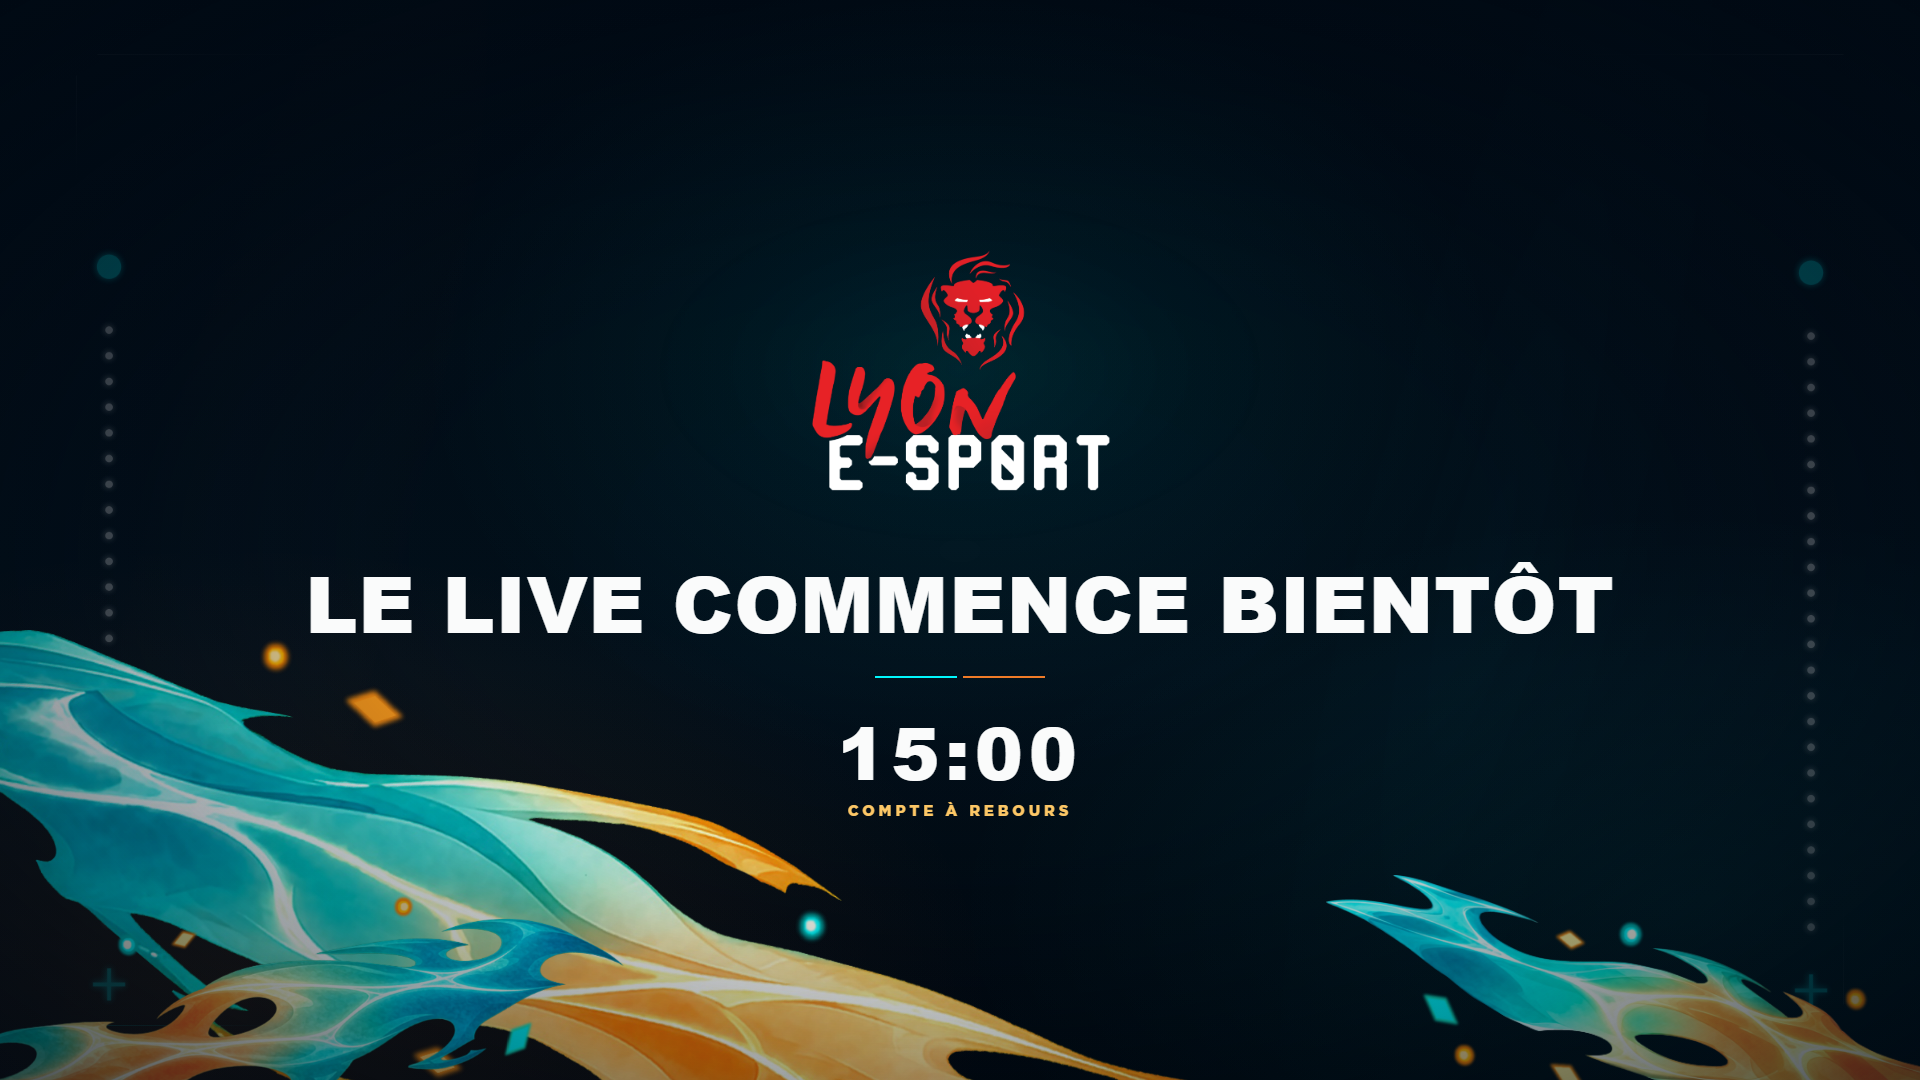
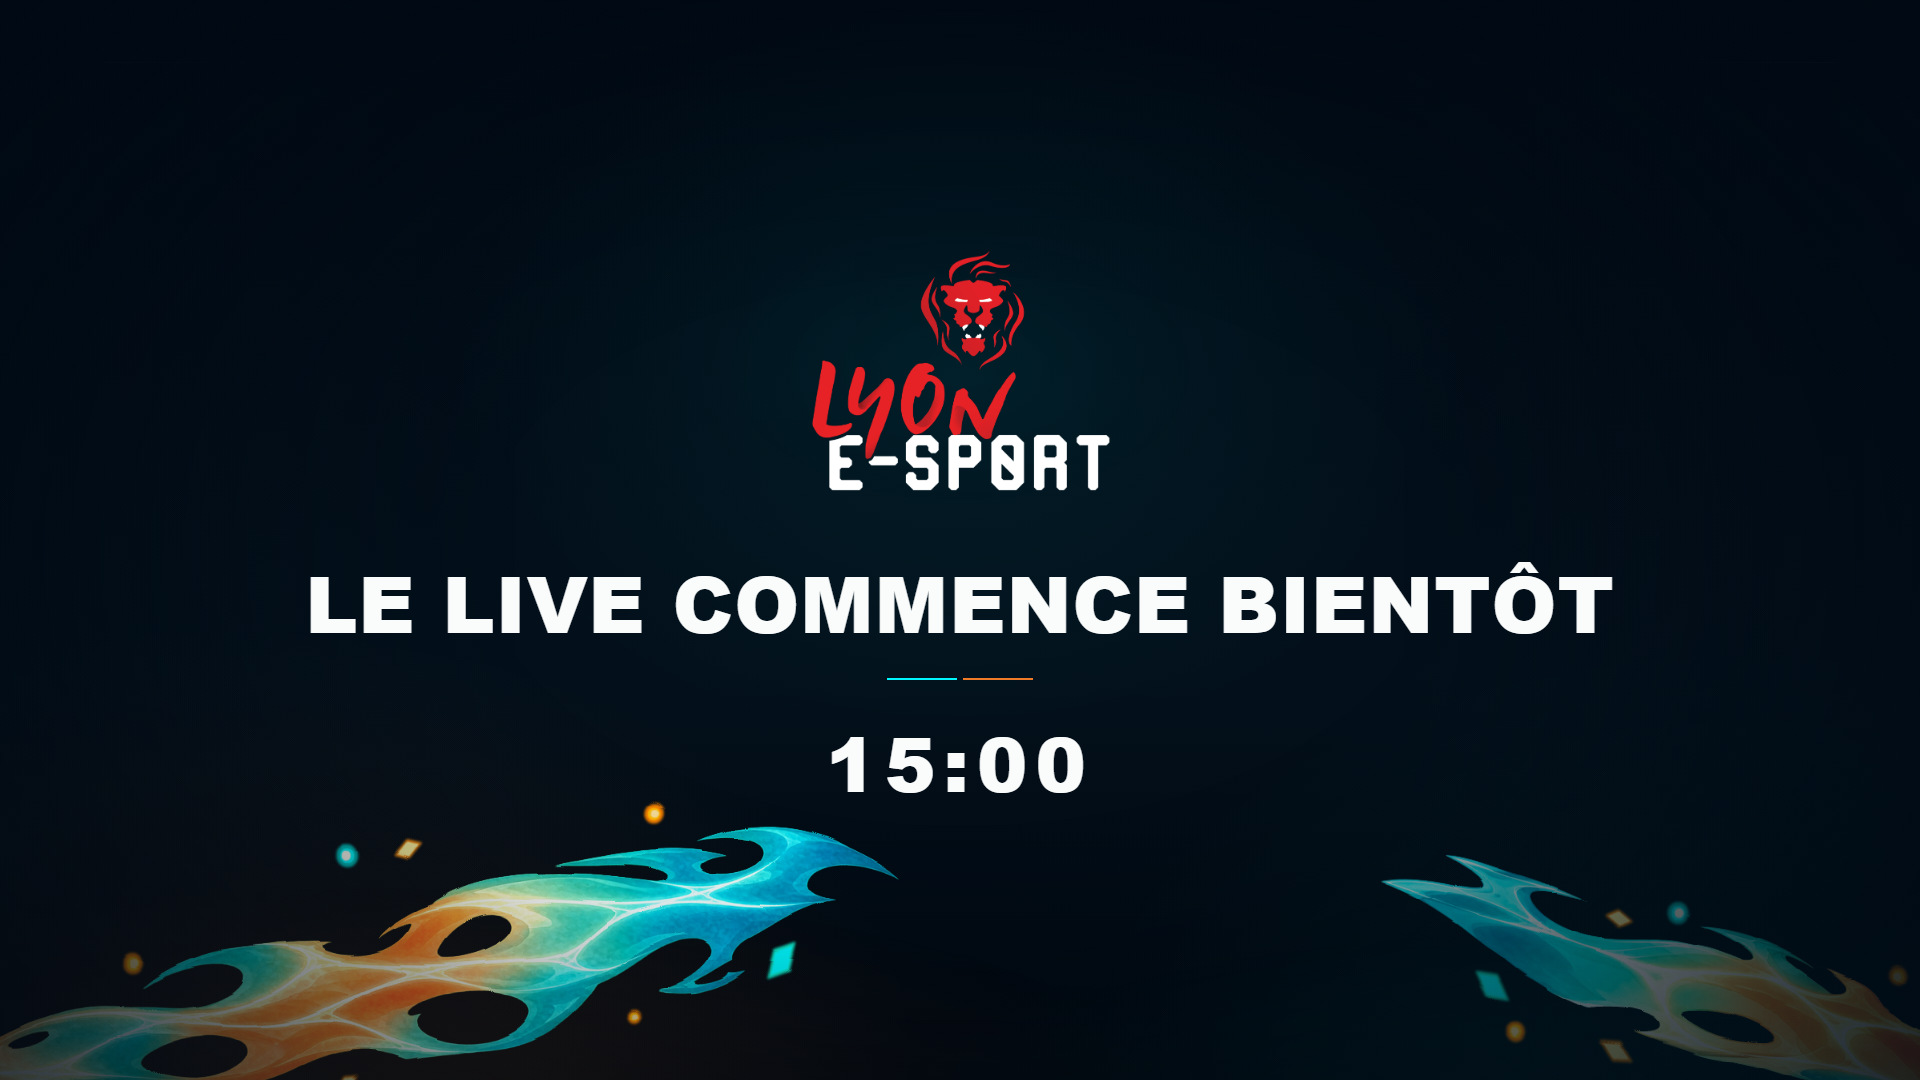
Refine waiting screen flame motion

diff --git a/components/graphics/waiting-renderer.tsx b/components/graphics/waiting-renderer.tsx
@@ -22,24 +22,45 @@ export function WaitingRenderer({ snapshot, state, getServerNowMs, freezeProgres
   useLayoutEffect(() => {
     if (!root.current) return;
     const scope = gsap.context(() => {
+      const leftCoarseNoise = root.current?.querySelector<SVGFETurbulenceElement>("[data-flow-noise='left-coarse']");
+      const leftFineNoise = root.current?.querySelector<SVGFETurbulenceElement>("[data-flow-noise='left-fine']");
+      const rightCoarseNoise = root.current?.querySelector<SVGFETurbulenceElement>("[data-flow-noise='right-coarse']");
+      const rightFineNoise = root.current?.querySelector<SVGFETurbulenceElement>("[data-flow-noise='right-fine']");
+      const leftCoarseDisplacement = root.current?.querySelector<SVGFEDisplacementMapElement>("[data-flow-displacement='left-coarse']");
+      const leftFineDisplacement = root.current?.querySelector<SVGFEDisplacementMapElement>("[data-flow-displacement='left-fine']");
+      const rightCoarseDisplacement = root.current?.querySelector<SVGFEDisplacementMapElement>("[data-flow-displacement='right-coarse']");
+      const rightFineDisplacement = root.current?.querySelector<SVGFEDisplacementMapElement>("[data-flow-displacement='right-fine']");
+      const flameFlow = { phase: 0 };
+
+      const renderFlameFlow = () => {
+        const phase = flameFlow.phase;
+        const leftX = 0.0064 + Math.sin(phase) * 0.00035;
+        const leftY = 0.0205 + Math.sin(phase * 2 + 0.35) * 0.0012;
+        const rightX = 0.0068 + Math.sin(phase + 0.8) * 0.0003;
+        const rightY = 0.0215 + Math.sin(phase * 2 + 1.1) * 0.001;
+        const leftFineX = 0.032 + Math.sin(phase * 2 + 0.2) * 0.0015;
+        const leftFineY = 0.068 + Math.sin(phase * 3 + 0.65) * 0.0025;
+        const rightFineX = 0.034 + Math.sin(phase * 2 + 1.2) * 0.0013;
+        const rightFineY = 0.071 + Math.sin(phase * 3 + 1.7) * 0.0022;
+
+        leftCoarseNoise?.setAttribute("baseFrequency", `${leftX.toFixed(5)} ${leftY.toFixed(5)}`);
+        leftFineNoise?.setAttribute("baseFrequency", `${leftFineX.toFixed(5)} ${leftFineY.toFixed(5)}`);
+        rightCoarseNoise?.setAttribute("baseFrequency", `${rightX.toFixed(5)} ${rightY.toFixed(5)}`);
+        rightFineNoise?.setAttribute("baseFrequency", `${rightFineX.toFixed(5)} ${rightFineY.toFixed(5)}`);
+        leftCoarseDisplacement?.setAttribute("scale", (6.2 + Math.sin(phase) * 1.15 + Math.sin(phase * 2 + 0.4) * 0.55).toFixed(2));
+        leftFineDisplacement?.setAttribute("scale", (1.4 + Math.sin(phase * 3 + 0.2) * 0.35).toFixed(2));
+        rightCoarseDisplacement?.setAttribute("scale", (4.2 + Math.sin(phase + 0.72) * 0.8 + Math.sin(phase * 2 + 1.1) * 0.35).toFixed(2));
+        rightFineDisplacement?.setAttribute("scale", (1.05 + Math.sin(phase * 3 + 1) * 0.25).toFixed(2));
+      };
+
+      renderFlameFlow();
       const timeline = gsap.timeline({ repeat: -1, paused: freezeProgress !== null });
       timeline
-        .fromTo("[data-flame-main]", { y: 0 }, { y: -7, duration: 7.5, ease: "sine.inOut" }, 0)
-        .to("[data-flame-main]", { y: 0, duration: 7.5, ease: "sine.inOut" }, 7.5)
-        .fromTo("[data-flame-left]", { x: 0, y: 0 }, { x: 4, y: -3, duration: 7.5, ease: "sine.inOut" }, 0)
-        .to("[data-flame-left]", { x: 0, y: 0, duration: 7.5, ease: "sine.inOut" }, 7.5)
-        .fromTo("[data-flame-right]", { x: 0, y: 0 }, { x: -4, y: -2, duration: 7.5, ease: "sine.inOut" }, 0)
-        .to("[data-flame-right]", { x: 0, y: 0, duration: 7.5, ease: "sine.inOut" }, 7.5)
-        .fromTo("[data-halo]", { scale: 1, opacity: 0.19 }, { scale: 1.018, opacity: 0.23, duration: 7.5, ease: "sine.inOut" }, 0)
-        .to("[data-halo]", { scale: 1, opacity: 0.19, duration: 7.5, ease: "sine.inOut" }, 7.5)
-        .fromTo("[data-sweep-cyan]", { x: -520, opacity: 0 }, { x: 2420, opacity: 0.18, duration: 10.5, ease: "none" }, 0.8)
-        .to("[data-sweep-cyan]", { opacity: 0, duration: 1.4, ease: "power1.in" }, 10.2)
-        .fromTo("[data-sweep-orange]", { x: -620, opacity: 0 }, { x: 2400, opacity: 0.13, duration: 9.2, ease: "none" }, 5.2)
-        .to("[data-sweep-orange]", { opacity: 0, duration: 0.6, ease: "power1.in" }, 14.4)
-        .fromTo("[data-points-left]", { y: 0 }, { y: -18, duration: 7.5, ease: "sine.inOut" }, 0)
-        .to("[data-points-left]", { y: 0, duration: 7.5, ease: "sine.inOut" }, 7.5)
-        .fromTo("[data-points-right]", { y: -10 }, { y: 8, duration: 7.5, ease: "sine.inOut" }, 0)
-        .to("[data-points-right]", { y: -10, duration: 7.5, ease: "sine.inOut" }, 7.5);
+        .to(flameFlow, { phase: Math.PI * 2, duration: 15, ease: "none", onUpdate: renderFlameFlow }, 0)
+        .fromTo("[data-halo]", { scale: 1, opacity: 0.16 }, { scale: 1.014, opacity: 0.205, duration: 7.5, ease: "sine.inOut" }, 0)
+        .to("[data-halo]", { scale: 1, opacity: 0.16, duration: 7.5, ease: "sine.inOut" }, 7.5)
+        .fromTo("[data-atmosphere]", { opacity: 0.42 }, { opacity: 0.58, duration: 7.5, ease: "sine.inOut" }, 0)
+        .to("[data-atmosphere]", { opacity: 0.42, duration: 7.5, ease: "sine.inOut" }, 7.5);
 
       if (freezeProgress !== null) {
         timeline.progress(Math.max(0, Math.min(0.9999, freezeProgress))).pause();
@@ -50,21 +71,30 @@ export function WaitingRenderer({ snapshot, state, getServerNowMs, freezeProgres
 
   return (
     <div className="gfx-stage waiting-stage" ref={root} data-testid="waiting-stage">
+      <svg className="waiting-filter-defs" width="0" height="0" aria-hidden="true" focusable="false">
+        <defs>
+          <filter id="waiting-flame-flow-left" x="-8%" y="-18%" width="116%" height="136%" colorInterpolationFilters="sRGB">
+            <feTurbulence data-flow-noise="left-coarse" type="fractalNoise" baseFrequency="0.0064 0.0205" numOctaves="2" seed="17" stitchTiles="stitch" result="leftCoarseNoise" />
+            <feDisplacementMap data-flow-displacement="left-coarse" in="SourceGraphic" in2="leftCoarseNoise" scale="6.2" xChannelSelector="R" yChannelSelector="B" result="leftCoarseFlow" />
+            <feTurbulence data-flow-noise="left-fine" type="fractalNoise" baseFrequency="0.032 0.068" numOctaves="1" seed="29" stitchTiles="stitch" result="leftFineNoise" />
+            <feDisplacementMap data-flow-displacement="left-fine" in="leftCoarseFlow" in2="leftFineNoise" scale="1.4" xChannelSelector="B" yChannelSelector="R" />
+          </filter>
+          <filter id="waiting-flame-flow-right" x="-8%" y="-18%" width="116%" height="136%" colorInterpolationFilters="sRGB">
+            <feTurbulence data-flow-noise="right-coarse" type="fractalNoise" baseFrequency="0.0068 0.0215" numOctaves="2" seed="23" stitchTiles="stitch" result="rightCoarseNoise" />
+            <feDisplacementMap data-flow-displacement="right-coarse" in="SourceGraphic" in2="rightCoarseNoise" scale="4.2" xChannelSelector="B" yChannelSelector="R" result="rightCoarseFlow" />
+            <feTurbulence data-flow-noise="right-fine" type="fractalNoise" baseFrequency="0.034 0.071" numOctaves="1" seed="31" stitchTiles="stitch" result="rightFineNoise" />
+            <feDisplacementMap data-flow-displacement="right-fine" in="rightCoarseFlow" in2="rightFineNoise" scale="1.05" xChannelSelector="R" yChannelSelector="B" />
+          </filter>
+        </defs>
+      </svg>
       <div className="waiting-depth" aria-hidden="true" />
       <div className="waiting-lines" aria-hidden="true" />
-      <div className="waiting-sweep waiting-sweep-cyan" data-sweep-cyan aria-hidden="true" />
-      <div className="waiting-sweep waiting-sweep-orange" data-sweep-orange aria-hidden="true" />
+      <div className="waiting-atmosphere" data-atmosphere aria-hidden="true" />
 
-      <img className="waiting-points waiting-points-left" data-points-left src="/assets/Ligne-points.png" alt="" aria-hidden="true" />
-      <img className="waiting-points waiting-points-right" data-points-right src="/assets/Ligne-points.png" alt="" aria-hidden="true" />
-
-      <div className="waiting-flame waiting-flame-main" data-flame-main aria-hidden="true">
-        <img src="/assets/Flamme-01.png" alt="" />
-      </div>
-      <div className="waiting-flame waiting-flame-left" data-flame-left aria-hidden="true">
+      <div className="waiting-flame waiting-flame-left" aria-hidden="true">
         <img src="/assets/Flamme-02.png" alt="" />
       </div>
-      <div className="waiting-flame waiting-flame-right" data-flame-right aria-hidden="true">
+      <div className="waiting-flame waiting-flame-right" aria-hidden="true">
         <img src="/assets/Flamme-03.png" alt="" />
       </div>
       <div className="waiting-vignette" aria-hidden="true" />
@@ -79,7 +109,6 @@ export function WaitingRenderer({ snapshot, state, getServerNowMs, freezeProgres
       {content.countdownEnabled && state && (
         <div className={`waiting-countdown ${state.timer.showDigits ? "" : "waiting-countdown-hidden"}`}>
           <span className="waiting-countdown-value">{value}</span>
-          <span className="waiting-countdown-label">Compte à rebours</span>
         </div>
       )}
     </div>

diff --git a/app/globals.css b/app/globals.css
@@ -91,75 +91,71 @@ button, a { -webkit-tap-highlight-color: transparent; }
   inset: 0;
   z-index: 0;
   background:
-    radial-gradient(ellipse at 50% 34%, rgba(1, 247, 253, 0.07), transparent 40%),
-    radial-gradient(ellipse at 12% 92%, rgba(239, 123, 40, 0.11), transparent 32%),
-    radial-gradient(ellipse at 88% 84%, rgba(1, 247, 253, 0.07), transparent 31%),
+    radial-gradient(ellipse at 50% 35%, rgba(1, 247, 253, 0.062), transparent 38%),
+    radial-gradient(ellipse at 12% 98%, rgba(239, 123, 40, 0.09), transparent 29%),
+    radial-gradient(ellipse at 91% 96%, rgba(1, 247, 253, 0.052), transparent 27%),
     linear-gradient(180deg, #010a14, #03101b 62%, #01070e);
+}
+
+.waiting-filter-defs {
+  position: absolute;
+  pointer-events: none;
 }
 
 .waiting-lines {
   position: absolute;
   z-index: 1;
-  inset: 54px 76px;
-  opacity: 0.56;
+  inset: 62px 84px;
+  opacity: 0.42;
   background:
-    linear-gradient(90deg, rgba(250, 251, 251, 0.12), rgba(250, 251, 251, 0.03) 22%, transparent 45%) top left / 42% 1px no-repeat,
-    linear-gradient(90deg, transparent 55%, rgba(250, 251, 251, 0.03) 78%, rgba(250, 251, 251, 0.12)) top right / 42% 1px no-repeat,
-    linear-gradient(90deg, rgba(1, 247, 253, 0.35), transparent 32%) bottom left / 35% 1px no-repeat,
-    linear-gradient(90deg, transparent 68%, rgba(239, 123, 40, 0.35)) bottom right / 35% 1px no-repeat,
-    linear-gradient(rgba(250, 251, 251, 0.1), transparent 35%) top left / 1px 42% no-repeat,
-    linear-gradient(transparent 65%, rgba(250, 251, 251, 0.1)) bottom right / 1px 42% no-repeat;
-  clip-path: polygon(0 22px, 22px 0, 100% 0, 100% calc(100% - 22px), calc(100% - 22px) 100%, 0 100%);
+    linear-gradient(90deg, rgba(250, 251, 251, 0.12), rgba(250, 251, 251, 0.025) 22%, transparent 44%) top left / 40% 1px no-repeat,
+    linear-gradient(90deg, transparent 56%, rgba(250, 251, 251, 0.025) 78%, rgba(250, 251, 251, 0.12)) top right / 40% 1px no-repeat,
+    linear-gradient(90deg, rgba(1, 247, 253, 0.26), transparent 30%) bottom left / 31% 1px no-repeat,
+    linear-gradient(90deg, transparent 70%, rgba(239, 123, 40, 0.24)) bottom right / 31% 1px no-repeat,
+    linear-gradient(rgba(250, 251, 251, 0.08), transparent 30%) top left / 1px 35% no-repeat,
+    linear-gradient(transparent 70%, rgba(250, 251, 251, 0.08)) bottom right / 1px 35% no-repeat;
+  clip-path: polygon(0 18px, 18px 0, 100% 0, 100% calc(100% - 18px), calc(100% - 18px) 100%, 0 100%);
 }
 
-.waiting-sweep {
+.waiting-atmosphere {
   position: absolute;
-  z-index: 2;
-  top: -160px;
-  bottom: -160px;
-  width: 280px;
+  z-index: 1;
+  left: 0;
+  right: 0;
+  bottom: 0;
+  height: 390px;
+  background:
+    radial-gradient(ellipse at 20% 104%, rgba(239, 123, 40, 0.2), transparent 38%),
+    radial-gradient(ellipse at 84% 106%, rgba(1, 247, 253, 0.13), transparent 32%);
+  opacity: 0.42;
   pointer-events: none;
-  transform: skewX(-14deg);
-  will-change: transform, opacity;
+  will-change: opacity;
 }
-.waiting-sweep-cyan { background: radial-gradient(ellipse, rgba(1, 247, 253, 0.12), rgba(1, 247, 253, 0.015) 44%, transparent 72%); }
-.waiting-sweep-orange { background: radial-gradient(ellipse, rgba(239, 123, 40, 0.09), rgba(239, 123, 40, 0.012) 44%, transparent 72%); }
-
-.waiting-points {
-  position: absolute;
-  z-index: 2;
-  display: block;
-  width: 42px;
-  height: auto;
-  opacity: 0.33;
-  pointer-events: none;
-  user-select: none;
-  will-change: transform;
-}
-.waiting-points-left { left: 88px; top: 255px; }
-.waiting-points-right { right: 88px; top: 235px; }
 
 .waiting-flame {
   position: absolute;
-  z-index: 3;
+  z-index: 2;
   pointer-events: none;
-  will-change: transform;
 }
 .waiting-flame img {
   display: block;
   width: 100%;
   height: auto;
   user-select: none;
+  will-change: filter;
 }
-.waiting-flame-main { left: 50%; bottom: -615px; width: 2140px; transform: translateX(-50%); }
-.waiting-flame-left { left: -420px; bottom: -190px; width: 1040px; }
-.waiting-flame-right { right: -310px; bottom: -155px; width: 900px; }
+.waiting-flame-left { left: -260px; bottom: -135px; width: 1160px; }
+.waiting-flame-left img { filter: url("#waiting-flame-flow-left"); }
+.waiting-flame-right { right: -340px; bottom: -125px; width: 880px; opacity: 0.68; }
+.waiting-flame-right img { filter: url("#waiting-flame-flow-right"); }
 
 .waiting-vignette {
   position: absolute;
   inset: 0;
-  z-index: 4;
-  background: radial-gradient(ellipse at 50% 51%, transparent 0, rgba(1, 10, 20, 0.05) 39%, rgba(1, 10, 20, 0.48) 78%, rgba(1, 10, 20, 0.72) 100%);
+  z-index: 3;
+  background:
+    radial-gradient(ellipse at 50% 51%, transparent 0 35%, rgba(1, 10, 20, 0.1) 52%, rgba(1, 10, 20, 0.52) 81%, rgba(1, 10, 20, 0.74) 100%),
+    linear-gradient(90deg, rgba(1, 10, 20, 0.34), transparent 27% 73%, rgba(1, 10, 20, 0.38));
   pointer-events: none;
 }
 
@@ -172,8 +168,8 @@ button, a { -webkit-tap-highlight-color: transparent; }
   height: 410px;
   margin-left: -360px;
   border-radius: 50%;
-  background: radial-gradient(ellipse, rgba(1, 247, 253, 0.18), rgba(1, 247, 253, 0.035) 44%, transparent 72%);
-  opacity: 0.19;
+  background: radial-gradient(ellipse, rgba(1, 247, 253, 0.145), rgba(1, 247, 253, 0.027) 43%, transparent 71%);
+  opacity: 0.16;
   pointer-events: none;
   will-change: transform, opacity;
 }
@@ -225,8 +221,8 @@ button, a { -webkit-tap-highlight-color: transparent; }
   content: "";
   position: absolute;
   left: 50%;
-  bottom: -34px;
-  width: 170px;
+  bottom: -36px;
+  width: 146px;
   height: 2px;
   transform: translateX(-50%);
   background: linear-gradient(90deg, var(--les-cyan) 0 48%, transparent 48% 52%, var(--les-orange) 52% 100%);
@@ -235,11 +231,8 @@ button, a { -webkit-tap-highlight-color: transparent; }
 .waiting-countdown {
   position: absolute;
   z-index: 7;
-  top: 716px;
+  top: 724px;
   left: 50%;
-  display: flex;
-  flex-direction: column;
-  align-items: center;
   min-width: 520px;
   transform: translateX(-50%);
   text-align: center;
@@ -249,27 +242,15 @@ button, a { -webkit-tap-highlight-color: transparent; }
   min-width: 520px;
   color: var(--les-white);
   font-family: "Eurostile LES", sans-serif;
-  font-size: 72px;
+  font-size: 76px;
   font-weight: 900;
   font-variant-numeric: tabular-nums;
   line-height: 1;
-  letter-spacing: 0.08em;
+  letter-spacing: 0.105em;
   transition: opacity 180ms ease;
 }
 
-.waiting-countdown-label {
-  margin-top: 16px;
-  color: var(--les-solar);
-  font-family: "Gotham LES", sans-serif;
-  font-size: 15px;
-  letter-spacing: 0.26em;
-  line-height: 1;
-  text-transform: uppercase;
-  transition: opacity 180ms ease;
-}
-
-.waiting-countdown-hidden .waiting-countdown-value,
-.waiting-countdown-hidden .waiting-countdown-label { opacity: 0; }
+.waiting-countdown-hidden .waiting-countdown-value { opacity: 0; }
 
 .lower-third-stage { background: transparent; }
 

diff --git a/lib/graphics/registry.ts b/lib/graphics/registry.ts
@@ -1,8 +1,9 @@
 import type { GraphicTemplate, Preset } from "./types";
 
[2 lines of base64/hex data omitted]
-const RESOURCE_REVISION = "les-da-2026-r1";
[2 lines of base64/hex data omitted]
+const RESOURCE_REVISION = "les-da-2026-r2";
 
 export const templates: GraphicTemplate[] = [
   {
@@ -31,12 +32,20 @@ export const templates: GraphicTemplate[] = [
         integritySha256: LOGO_HASH,
       },
       {
-        id: "flamme-officielle",
-        label: "Flamme officielle 01",
-        path: "/assets/Flamme-01.png",
+        id: "flamme-officielle-gauche",
+        label: "Flamme officielle 02 — masse gauche",
+        path: "/assets/Flamme-02.png",
         status: "available",
         required: true,
-        integritySha256: FLAME_HASH,
+        integritySha256: FLAME_LEFT_HASH,
+      },
+      {
+        id: "flamme-officielle-droite",
+        label: "Flamme officielle 03 — rappel droit",
+        path: "/assets/Flamme-03.png",
+        status: "available",
+        required: true,
+        integritySha256: FLAME_RIGHT_HASH,
       },
       {
         id: "eurostile-black",

diff --git a/DESIGN.md b/DESIGN.md
@@ -18,7 +18,7 @@ Typographies nommées par la charte : Eurostile Extd Black, Eurostile Extd Regul
 
 Le bloc-marque officiel est affiché dans ses couleurs sources, sans filtre, contour, recadrage, recoloration, redessin, extrusion, déformation ni altération du ratio. Il reste fixe et pleinement opaque. Le fichier public `public/assets/Bloc_marque_sans-fond_blanc.png` est une copie binaire intacte du fichier explicitement choisi par le responsable scène.
 
-Les motifs officiels utilisés sont les flammes/volutes et la ligne de points fournies. Ils restent décoratifs et ne passent pas devant le logo, le message ni le compteur.
+Les motifs officiels utilisés sont les flammes/volutes fournies. Ils restent décoratifs et ne passent pas devant le logo, le message ni le compteur. La ligne de points reste disponible mais n’est plus utilisée sur l’écran d’attente, afin de préserver une hiérarchie plus nette.
 
 ## Ressources disponibles
 
@@ -38,11 +38,13 @@ La police manquante est visible dans l’administration. Elle ne bloque pas la V
 - canevas de travail 1920 × 1080 et réduction uniforme dans les aperçus ;
 - centre visuel du logo autour de `y = 365 px`, dans une enveloppe maximale de 326 × 260 px adaptée au vrai ratio ;
 - message centré à partir de `y = 560 px` ;
-- compteur centré à partir de `y = 716 px` ;
+- compteur numérique seul, centré à partir de `y = 724 px`, sans libellé secondaire ;
 - centre sombre, motifs concentrés aux bords et dans la partie basse ;
 - lueur cyan discrète située derrière le logo, jamais appliquée au fichier du logo ;
 - boucle GSAP déterministe de 15 secondes, sans caméra, flash, glitch ou pulsation du logo ;
-- faibles translations périodiques des flammes et points, et deux balayages lumineux doux ;
+- une masse de flamme officielle dominante à gauche et un rappel plus léger à droite, sans troisième nappe superposée au centre ;
+- aucune translation globale des flammes : leur mouvement est une déformation interne locale à deux échelles, de faible amplitude, pilotée par des fonctions périodiques qui retrouvent exactement leur état initial à 15 secondes ;
+- respiration très lente de l’atmosphère basse et du halo placé derrière le logo ; aucun balayage traversant ni colonne de points ;
 - compteur piloté par une horloge distincte de la boucle décorative.
 
 ### Synthé individuel
